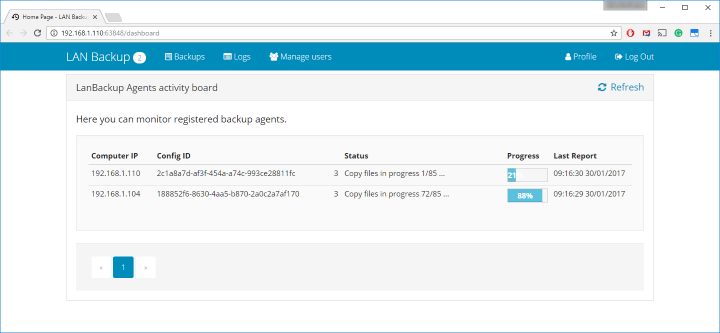
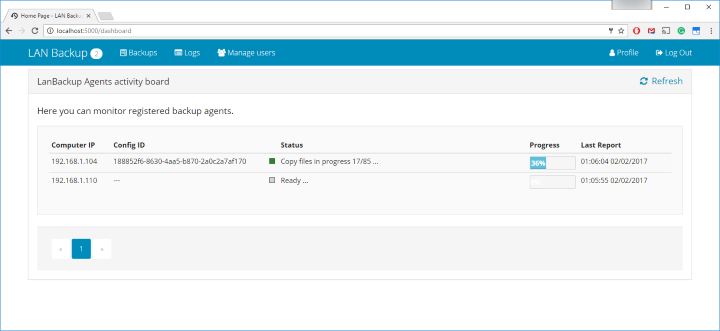
status with colored box minor fixes

diff --git a/src/LanBackup.WebApp/ClientApp/app/components/dashboard/dashboard.component.html b/src/LanBackup.WebApp/ClientApp/app/components/dashboard/dashboard.component.html
@@ -26,10 +26,10 @@
       <table class="table table-hover table-fixed table-condensed table-striped anyLoadingTable">
         <thead>
           <tr>
-            <th>Computer IP</th>
-            <th>Config ID</th>
+            <th width="10%">Computer IP</th>
+            <th width="25%">Config ID</th>
             <th width="1%"></th>
-            <th width="30%">Status</th>
+            <th width="40%">Status</th>
             <th>Progress</th>
             <th width="15%">Last Report</th>
           </tr>
@@ -39,7 +39,7 @@
           <tr *ngFor="let agent of list | paginate: { id: 'pagedList', itemsPerPage: pageSize, currentPage: currentPage, totalItems: totalPages }">
             <td>{{agent.ip}}</td>
             <td>{{agent.configurationId ? agent.configurationId : '---'}}</td>
-            <td>{{agent.statusType}}</td>
+            <td style="vertical-align:top; text-align:right;"><div class="statusIcon statusIcon_{{agent.statusType}}"></div></td>
             <td>{{agent.statusDescription}}</td>
             <td>
               <!--agent.statusPercent-->

diff --git a/src/LanBackup.WebApp/ClientApp/app/components/app/app.component.css b/src/LanBackup.WebApp/ClientApp/app/components/app/app.component.css
@@ -71,3 +71,31 @@ body {
   top:45%; 
   position:relative;
 }
+
+
+
+.statusIcon{
+  width: 10px;
+  height: 10px;
+  border:1px solid #444;
+  margin-top: 3px;
+}
+/*idle*/
+.statusIcon_0 {
+  background-color: lightgray;
+}
+
+/*starting*/
+.statusIcon_1 {
+  background-color: lightgreen;
+}
+
+/*copy folders files*/
+.statusIcon_2, .statusIcon_3{
+  background-color: forestgreen;
+}
+
+/*error*/
+.statusIcon_4 {
+  background-color: firebrick;
+}

diff --git a/src/LanBackup.WebApp/Startup.cs b/src/LanBackup.WebApp/Startup.cs
@@ -7,7 +7,6 @@ using Microsoft.Extensions.Configuration;
 using Microsoft.Extensions.DependencyInjection;
 using Microsoft.Extensions.Logging;
 using LanBackup.WebApp.Data;
-using Microsoft.EntityFrameworkCore;
 using LanBackup.DataCore;
 using LanBackup.WebApp.Models;
 using Microsoft.AspNetCore.Identity.EntityFrameworkCore;
@@ -21,11 +20,9 @@ using LanBackup.WebApp.Hubs;
 using LanBackup.WebApp.Middleware;
 using System.Linq;
 using AutoMapper;
-using LanBackup.ModelsCore;
-using LanBackup.WebApp.Models.DTO;
 using LanBackup.WebApp.Controllers;
-using Microsoft.AspNetCore.Http;
 using LanBackup.WebApp.Models.Telemetry;
+using Microsoft.ApplicationInsights.Extensibility;
 
 namespace LanBackup.WebApp
 {
@@ -33,6 +30,7 @@ namespace LanBackup.WebApp
   {
 
     public const string AuthenticationSchemeName = "MyAuthScheme";
+    private bool isApplicationInsightEnabled = false;
 
     public Startup(IHostingEnvironment env)
     {
@@ -52,6 +50,8 @@ namespace LanBackup.WebApp
       builder.AddEnvironmentVariables();
       Configuration = builder.Build();
 
+      this.isApplicationInsightEnabled = Configuration.GetSection("AppSettings").GetValue<bool>("InstrumentationEnabled");
+
     }
 
     public IConfigurationRoot Configuration { get; }
@@ -62,6 +62,7 @@ namespace LanBackup.WebApp
 
       //AppInsighttelemetry
       services.AddApplicationInsightsTelemetry(Configuration);
+      TelemetryConfiguration.Active.DisableTelemetry = !Configuration.GetSection("AppSettings").GetValue<bool>("InstrumentationEnabled");
 
       //conf telemetry logger 
       services.AddSingleton<ITelemetryLogger, TelemetryLogger>();
@@ -138,7 +139,8 @@ namespace LanBackup.WebApp
       loggerFactory.AddFile(Configuration["FileLogging:Path"]);
 
       // Add Application Insights monitoring to the request pipeline as a very first middleware.
-      app.UseApplicationInsightsRequestTelemetry();
+      if(this.isApplicationInsightEnabled)
+        app.UseApplicationInsightsRequestTelemetry();
 
       //conf CORS
       app.UseCors(builder => builder.AllowAnyOrigin().AllowAnyHeader().AllowAnyMethod());
@@ -162,7 +164,8 @@ namespace LanBackup.WebApp
         app.UseExceptionHandler("/Home/Error");
       }
       // Add Application Insights exceptions handling to the request pipeline. - after error page and any other error handling middleware:
-      app.UseApplicationInsightsExceptionTelemetry();
+      if(this.isApplicationInsightEnabled)
+        app.UseApplicationInsightsExceptionTelemetry();
 
 
       app.UseStaticFiles();
@@ -203,8 +206,6 @@ namespace LanBackup.WebApp
                   name: "spa-fallback",
                   defaults: new { controller = "Home", action = "Index" });
       });
-
-
 
 
 

diff --git a/src/LanBackup.WebApp/Models/Telemetry/TelemetryLogger.cs b/src/LanBackup.WebApp/Models/Telemetry/TelemetryLogger.cs
@@ -7,19 +7,36 @@ namespace LanBackup.WebApp.Models.Telemetry
   {
     private TelemetryClient _telemetryClient;
 
+    private bool isEnabled;
+    public bool IsEnabled
+    {
+      get
+      {
+        return isEnabled;
+      }
+
+      set
+      {
+        isEnabled = value;
+      }
+    }
+
     public TelemetryLogger(TelemetryClient telemetryClient)
     {
       this._telemetryClient = telemetryClient;
+      this.IsEnabled = telemetryClient.IsEnabled();
     }
 
     public void TrackEvent(string eventmsg)
     {
-      this._telemetryClient.TrackEvent(eventmsg);
+      if(this.IsEnabled)
+        this._telemetryClient.TrackEvent(eventmsg);
     }
 
     public void TrackException(Exception ex)
     {
-      this._telemetryClient.TrackException(ex);
+      if(this.IsEnabled)
+        this._telemetryClient.TrackException(ex);
     }
   }
 

diff --git a/test/LanBackup.WebApp.Tests/Mock/MockTelemetry.cs b/test/LanBackup.WebApp.Tests/Mock/MockTelemetry.cs
@@ -5,6 +5,20 @@ namespace LanBackup.WebApp.Tests.IntegrationTests
 {
   internal class MockTelemetry : ITelemetryLogger
   {
+    private bool isEnabled;
+    public bool IsEnabled
+    {
+      get
+      {
+        return isEnabled;
+      }
+
+      set
+      {
+        isEnabled = value;
+      }
+    }
+
     public void TrackEvent(string eventmsg)
     {
       //DO NOTHING

diff --git a/src/LanBackup.WebApp/Models/Telemetry/ITelemetryLogger.cs b/src/LanBackup.WebApp/Models/Telemetry/ITelemetryLogger.cs
@@ -6,5 +6,7 @@ namespace LanBackup.WebApp.Models.Telemetry
   {
     void TrackException(Exception ex);
     void TrackEvent(string v);
+
+    bool IsEnabled { get; set; }
   }
 }
